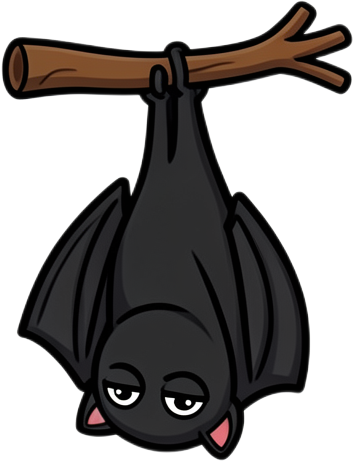
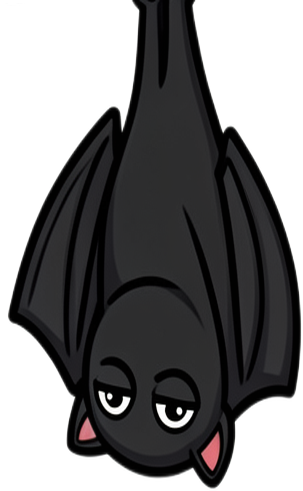
Pumpkins glow only on the day itself (flicker_min); hanging bat clings to the top edge, no branch, longer
Claude-Session: https://claude.ai/code/session_01WxBhhB9QxorZLCmzVHELkL

diff --git a/themes.py b/themes.py
@@ -284,7 +284,8 @@ def _sprite_frames(theme_dir: Path, sdef: dict[str, Any], height_px: int) -> lis
 
     # Cheap motion from a single drawing (image generation is poor at pose variants):
     #   "flap": N  → wing beat, the frame squashed vertically around its centre over N steps
-    #   "flicker": N → candle light, brightness wobbling over N steps
+    #   "flicker": N → candle light, brightness wobbling over N steps ("flicker_min": only from that
+    #   level on, see build_manifest)
     flap = int(sdef.get("flap", 0))
     if flap > 1 and frames:
         base = frames[0]
@@ -431,6 +432,8 @@ def build_manifest(theme: str, level: int, screen_w: int, screen_h: int, text: b
     tdef = json.loads((theme_dir / "theme.json").read_text(encoding="utf-8"))
     sprites = {}
     for name, sdef in (tdef.get("sprites") or {}).items():
+        if level < int(sdef.get("flicker_min", 0)):
+            sdef = {k: v for k, v in sdef.items() if k not in ("flicker", "flicker_min")}
         try:
             sprites[name] = build_sprite(theme_dir, name, sdef, screen_h)
         except Exception as e:
